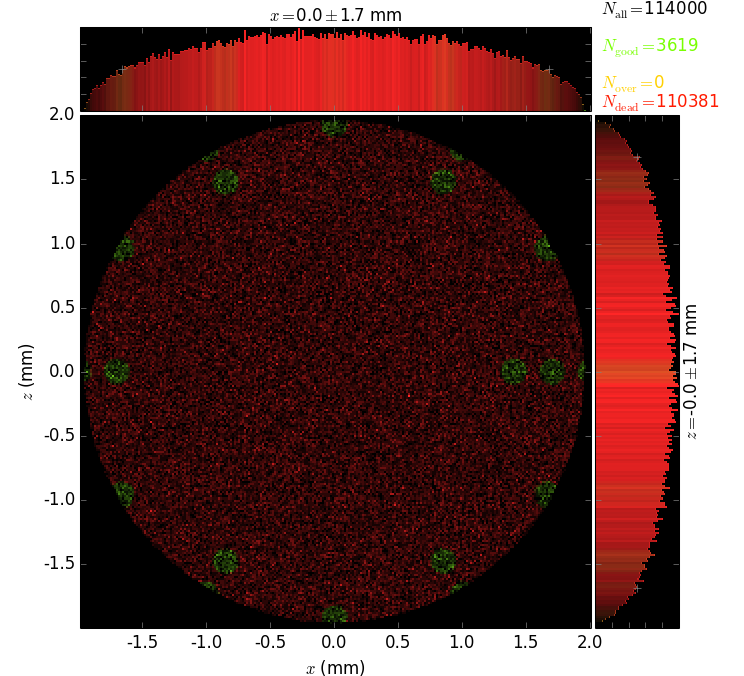
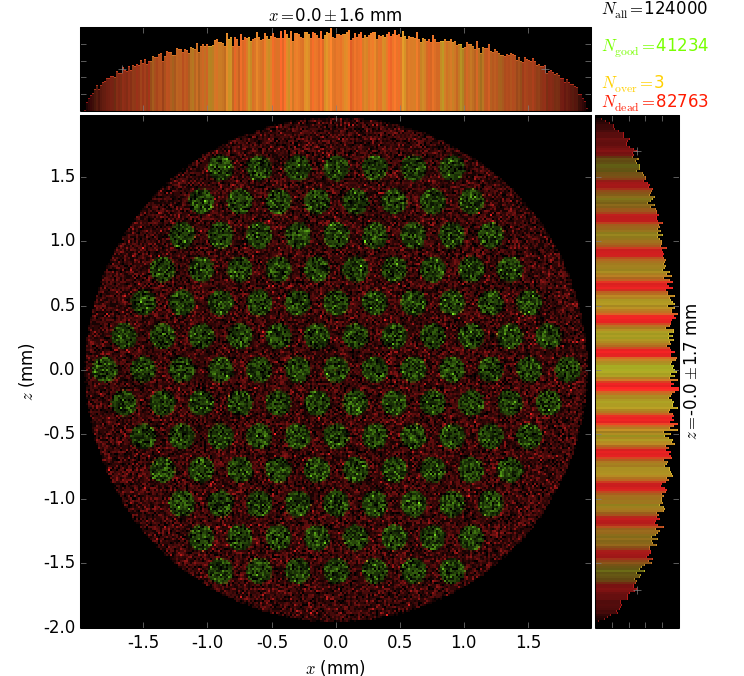
screen position 2f ?

diff --git a/myCapillary0A.py b/myCapillary0A.py
@@ -49,7 +49,7 @@ class BentCapillary(roe.OE):
         self.isParametric = True
 
     def local_x0(self, s):  # axis of capillary, x(s)
-        return self.a0 * s**2 + self.b0 + np.abs(s)/1000
+        return self.a0 * s**2 + self.b0
 
     def local_x0Prime(self, s):
         return 2 * self.a0 * s
@@ -126,7 +126,7 @@ def build_beamline(nrays=1000):
 #    beamLine.sources[0].dxprime = (np.arcsin((2*n-3) * (r0+wall) / rSample),
 #        np.arcsin((2*n+1) * (r0+wall) / rSample))
 #    beamLine.sources[0].dxprime = 0, np.arcsin(r0 / rSample)
-    beamLine.fsm2 = rsc.Screen(beamLine, 'DiamondFSM2', (0, f, 0))
+    beamLine.fsm2 = rsc.Screen(beamLine, 'DiamondFSM2', (0, 2*f, 0))
     return beamLine
 
 def run_process(beamLine, shineOnly1stSource=False):
@@ -175,7 +175,7 @@ def plot2D():
         line[0].set_dashes(seq)
         ax1.plot(f-s, x-r, 'r-', lw=2)
         ax1.plot(f-s, x+r, 'r-', lw=2)
-    ax1.set_xlim(0, 2*f)
+    ax1.set_xlim(0, f)
     ax1.set_ylim(-2*capillary.r0in, capillary.local_x0(0) + 2*capillary.r0out)
     fig1.savefig('PolycapillaryZ0crosssection.png')
     plt.show()
